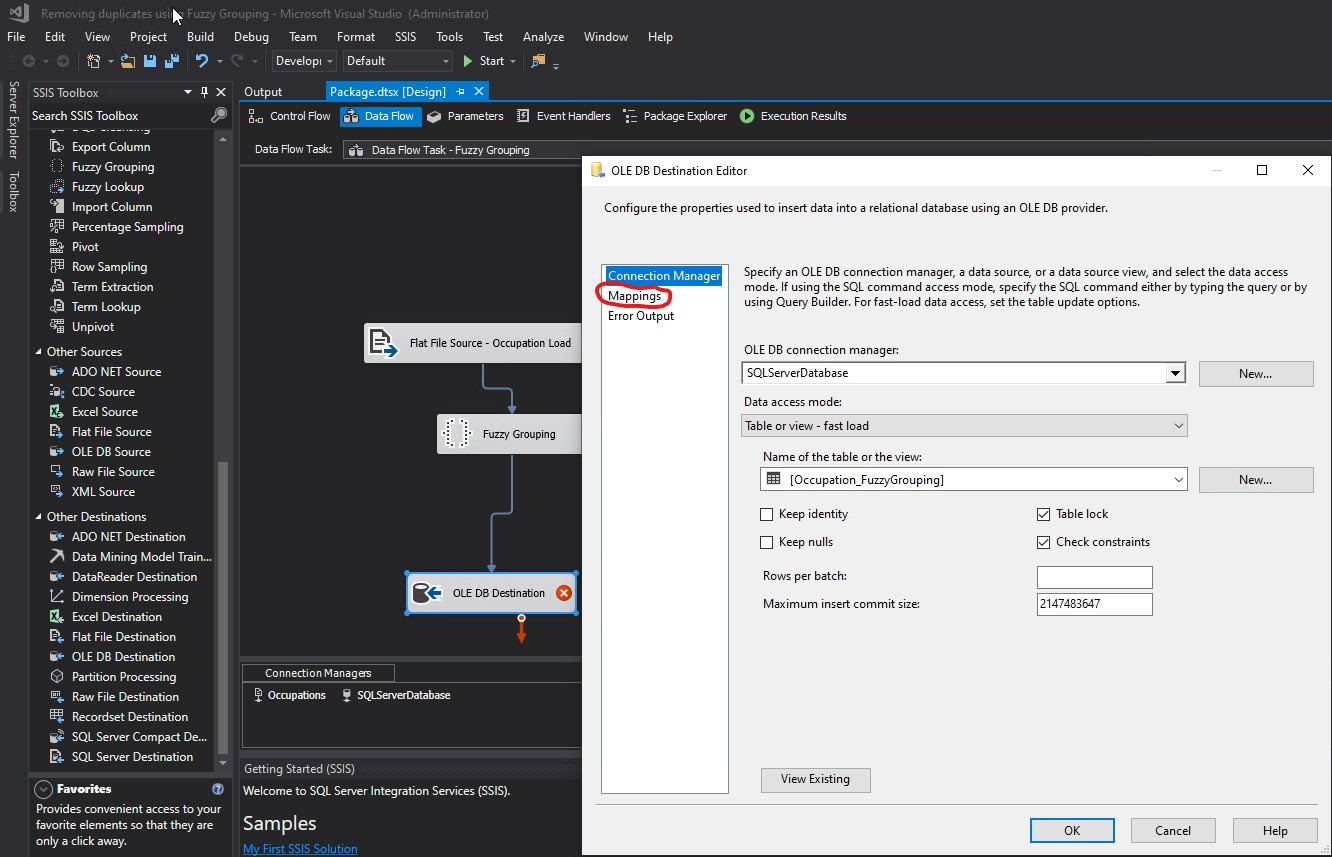
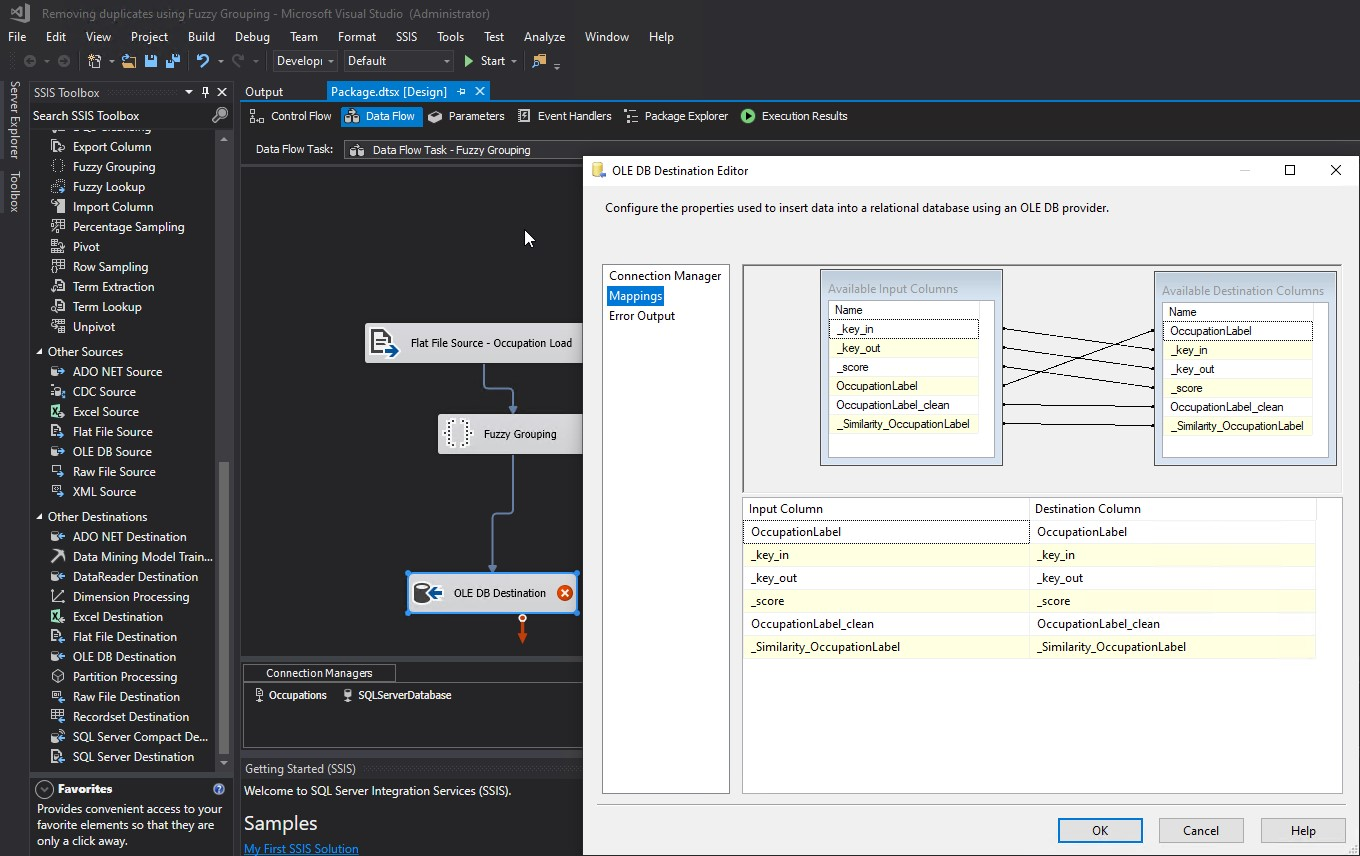
Update picture.

diff --git a/blog/2023/12/12/05/59/book-info-20231212-0559.php b/blog/2023/12/12/05/59/book-info-20231212-0559.php
@@ -14,5 +14,5 @@
   [OccupationLabel_clean] varchar(50),
   [_Similarity_OccupationLabel] real
 )</pre>
-           <p>I clicked <span class=\"cod\">OK</span>. As soon as the <span class=\"cod\">OK</span> button was clicked, the new table was created in the database:</p><div><img src=\"/blog/2023/12/12/05/59/img/provideCodeToCreateNewTable.jpg\" alt=\"Provide code to create new table\" width=\"1792\" height=\"791\"></div><p>I confirmed from the database that my table was created successfully:</p><div><img src=\"/blog/2023/12/12/05/59/img/newTableCreatedSuccessfully.jpg\" alt=\"New table created successfully\" width=\"268\" height=\"142\"></div><p>I clicked <span class=\"cod\">Mappings</span>:</p><div><img src=\"/blog/2023/12/12/05/59/img/clickMappings.jpg\" alt=\"Click Mappings\" width=\"1332\" height=\"857\"></div><p>I did not change anything. The mappings were already correct as I needed it, autimatically done by the tool based on exactly matching names. I clicked <span class=\"cod\">OK</span>:</p><div><img src=\"/blog/2023/12/12/05/59/img/seeMappingsAndClickOK.jpg\" alt=\"See Mappings and click OK\" width=\"1332\" height=\"857\"></div><div>Published: 5:59 AM GMT · Dec 12, 2023</div>\n";
+           <p>I clicked <span class=\"cod\">OK</span>. As soon as the <span class=\"cod\">OK</span> button was clicked, the new table was created in the database:</p><div><img src=\"/blog/2023/12/12/05/59/img/provideCodeToCreateNewTable.jpg\" alt=\"Provide code to create new table\" width=\"1792\" height=\"791\"></div><p>I confirmed from the database that my table was created successfully:</p><div><img src=\"/blog/2023/12/12/05/59/img/newTableCreatedSuccessfully.jpg\" alt=\"New table created successfully\" width=\"268\" height=\"142\"></div><p>I clicked <span class=\"cod\">Mappings</span>:</p><div><img src=\"/blog/2023/12/12/05/59/img/clickMappings.jpg\" alt=\"Click Mappings\" width=\"1332\" height=\"857\"></div><p>I did not change anything. The mappings were already correct as I needed it, autimatically done by the tool based on exactly matching names. I clicked <span class=\"cod\">OK</span>:</p><div><img src=\"/blog/2023/12/12/05/59/img/seeMappingsAndClickOK.jpg\" alt=\"See Mappings and click OK\" width=\"1360\" height=\"856\"></div><div>Published: 5:59 AM GMT · Dec 12, 2023</div>\n";
 ?>
